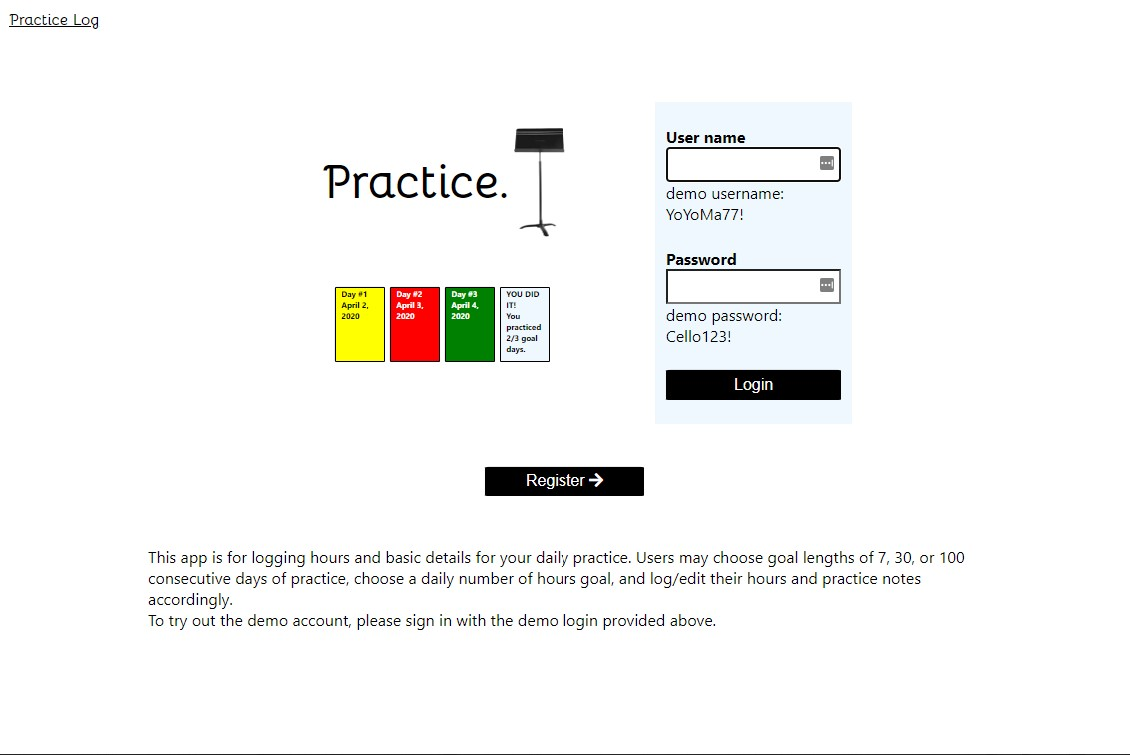
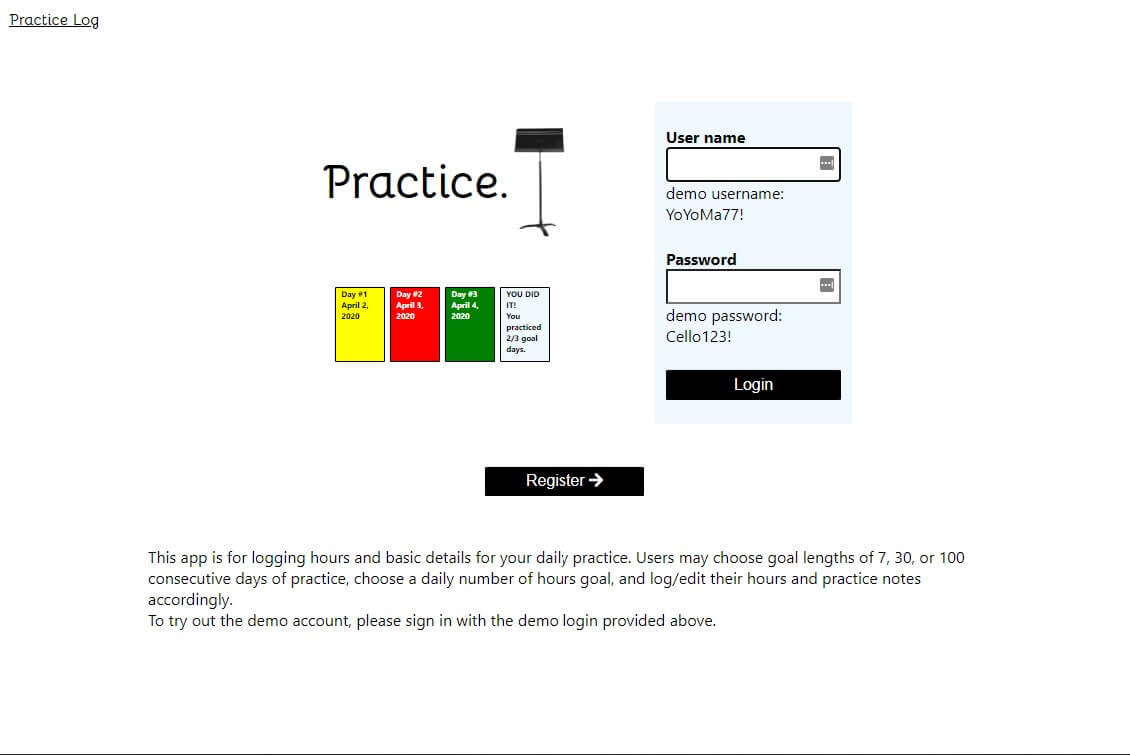
tinify jpg

diff --git a/README.md b/README.md
@@ -31,7 +31,7 @@ run `npm start`
 ### Screenshots
 
 
-## ![](\assets\https://github.com/devlewis/practice-log-client/blob/62f751c2800ef92a834064e90e20ef89884a450d/assets/Screenshot%202021-05-13%20085823.jpg)
+## ![](\assets\Screenshot%202021-05-13%20085823.jpg)
 
 ## ![](practice-log-client\assets\daylist.jpg)
 
